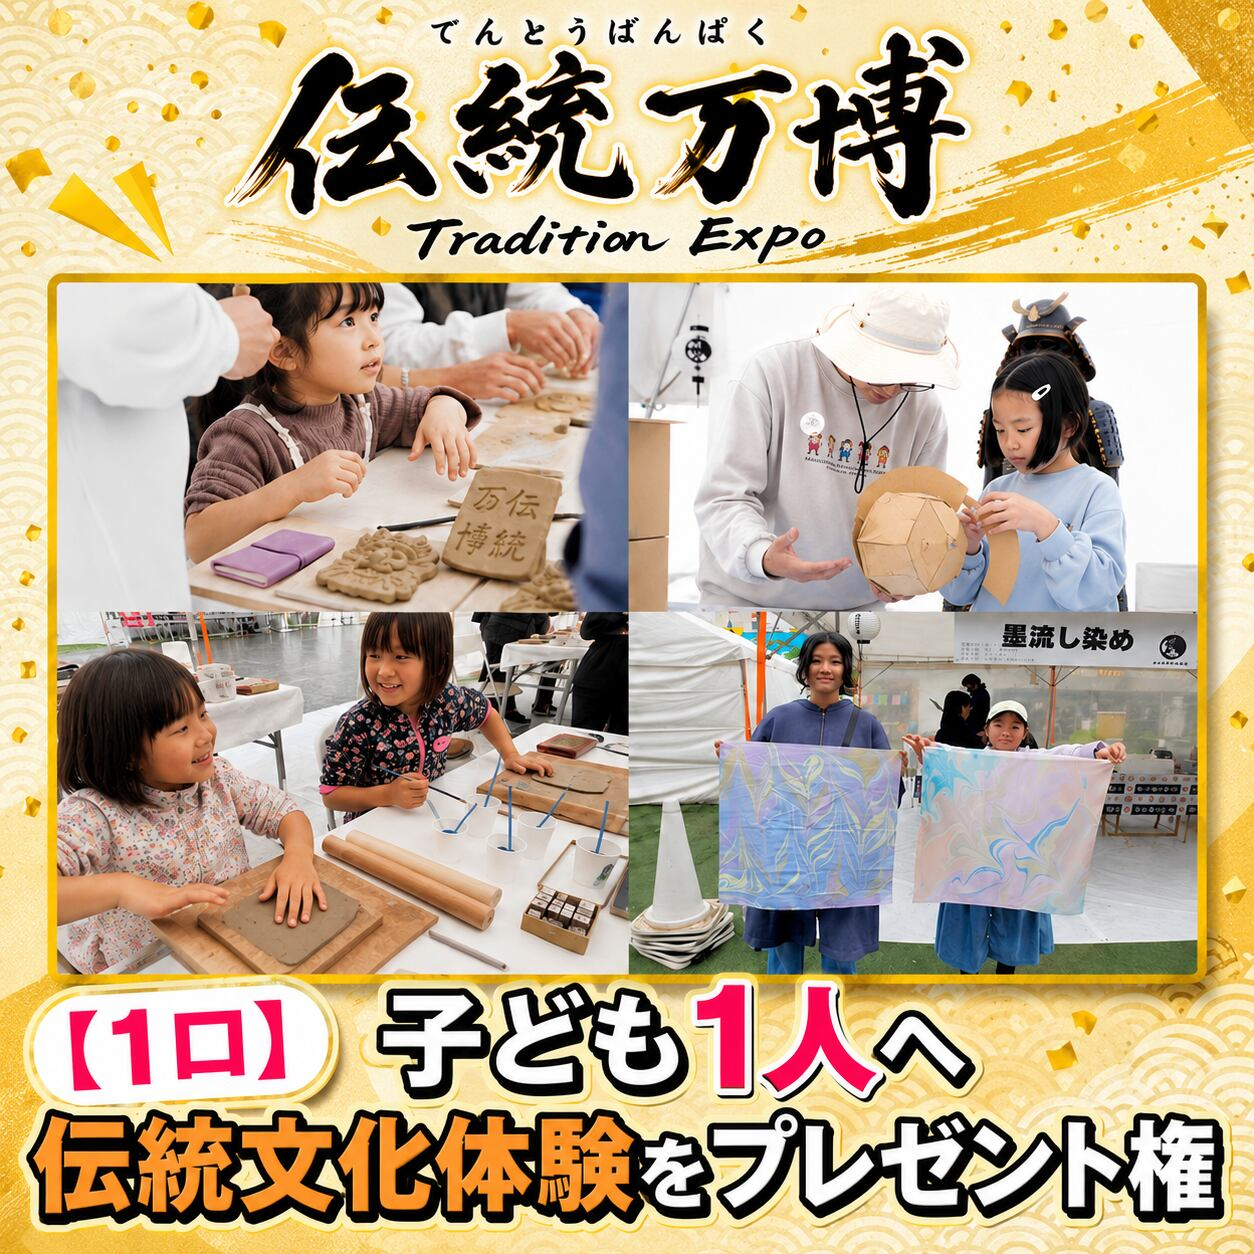
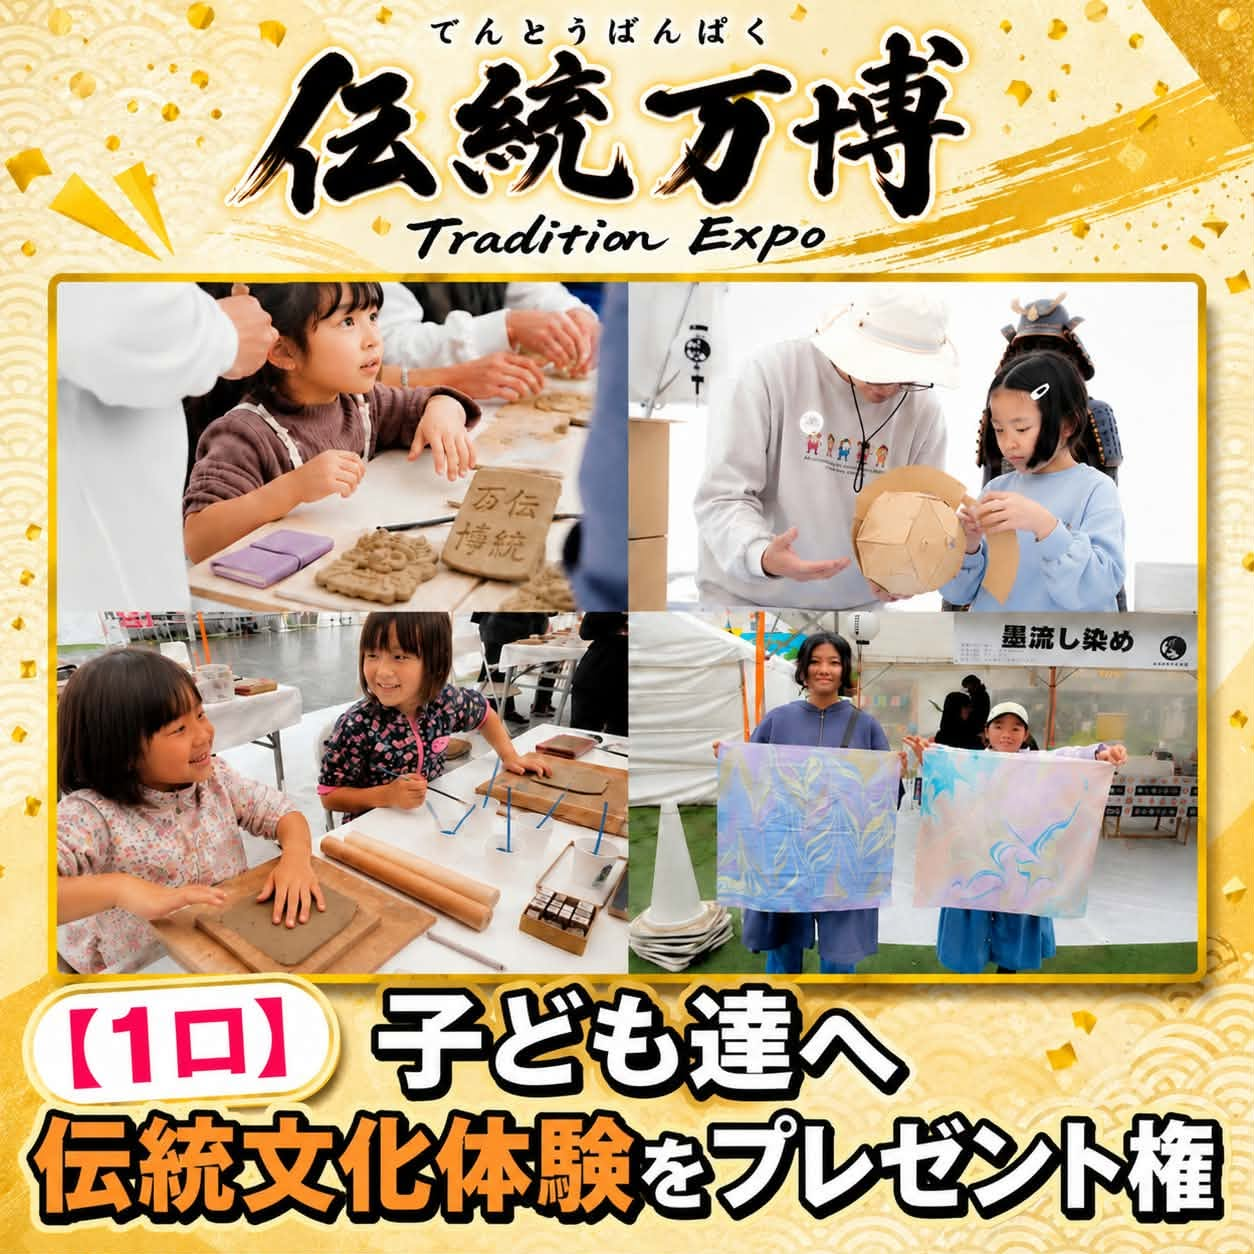
update: 出展者名「古城農園」への変更および画像の更新 (giftforkids.jpeg, staff2026.jpeg)

diff --git a/overview.html b/overview.html
@@ -240,7 +240,7 @@
               <div class="experience-meta-item">
                 <i class="fa-solid fa-user"></i>
                 <span class="label">出展者:</span>
-                <span>那須ちゃん</span>
+                <span>古城農園</span>
               </div>
             </div>
           </div>
